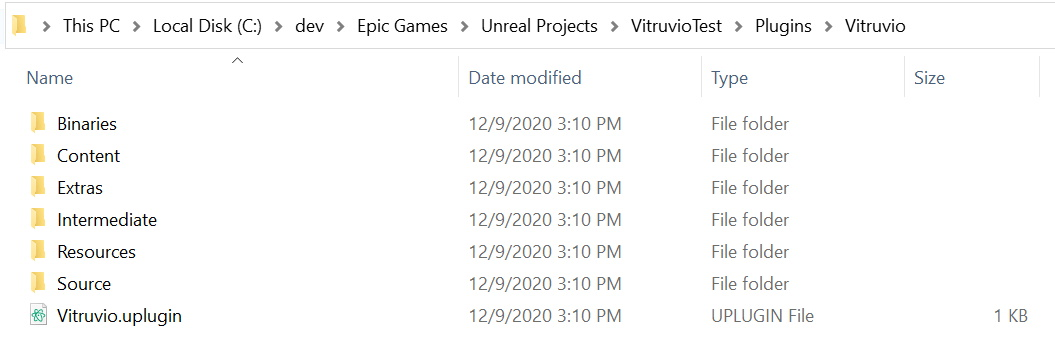
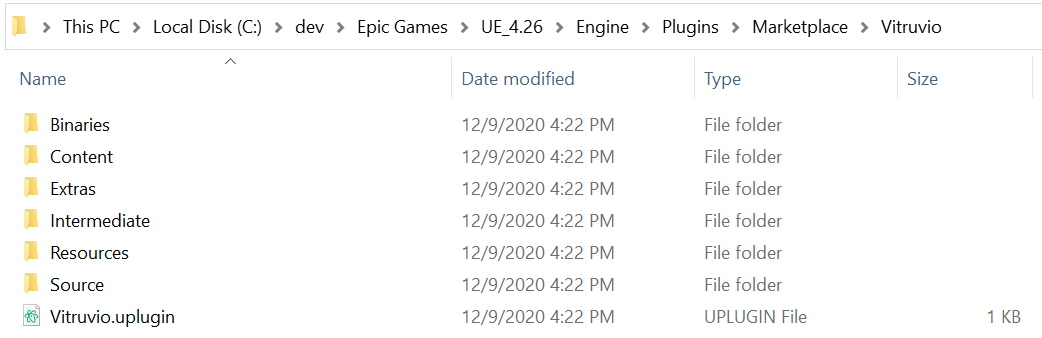
Switch installation guide to Engine installation (improvement)

diff --git a/doc/installation.md b/doc/installation.md
@@ -4,15 +4,19 @@ This page describes how to install the Vitruvio Plugin for Unreal 4.26.
 
 * Download the [latest Vitruvio](https://github.com/Esri/vitruvio/releases/latest) version. **Note** that the zip file contains libraries which are used by Vitruvio and your browser might warn you not to download them. This warning can be ignored.
 
+* Unzip the downloaded file and copy the extracted Vitruvio folder to `<Path to Unreal Engine 4.26>\Engine\Plugins\Marketplace`  (for example `C:\dev\Epic Games\UE_4.26\Engine\Plugins\Marketplace`). 
+  <img src="img/plugin_folder.jpg" width="700">
+
 * Create a new Unreal Engine 4.26 project from the Epic Games launcher or use an existing project.
 
-* Create a folder named `Plugins` in the root directory of your project if it does not already exist (for example `C:\dev\Epic Games\Unreal Projects\VitruvioTest\Plugins`).
+* After opening the project a popup will notify you of the newly available Vitruvio Plugin. Open **Manage Plugins...** (if the popup does not appear open **Edit** &rarr; **Plugins** instead)
   
-* Unzip the previously downloaded file to the `Plugins` folder. The `Plugins` folder should now contain a `Vitruvio` folder (containing the Plugin) looking like this:
+  <img src="img/new_plugins.jpg" width="400">
   
-  <img src="img/plugin_folder.jpg" width="700">
+* Search for *Vitruvio* in the Plugin manager and enable the plugin (will require a restart). 
+  <img src="img/enable_vitruvio.jpg" width="600">
   
-* Open the project. The Vitruvio plugin will be enabled automatically and can be used. For further instructions on how to use the Plugin please refer to the [Usage Guide](usage.md).
+* After restarting Vitruvio will be ready to use. For further instructions on how to use the Plugin please refer to the [Usage Guide](usage.md).
   
   
   
